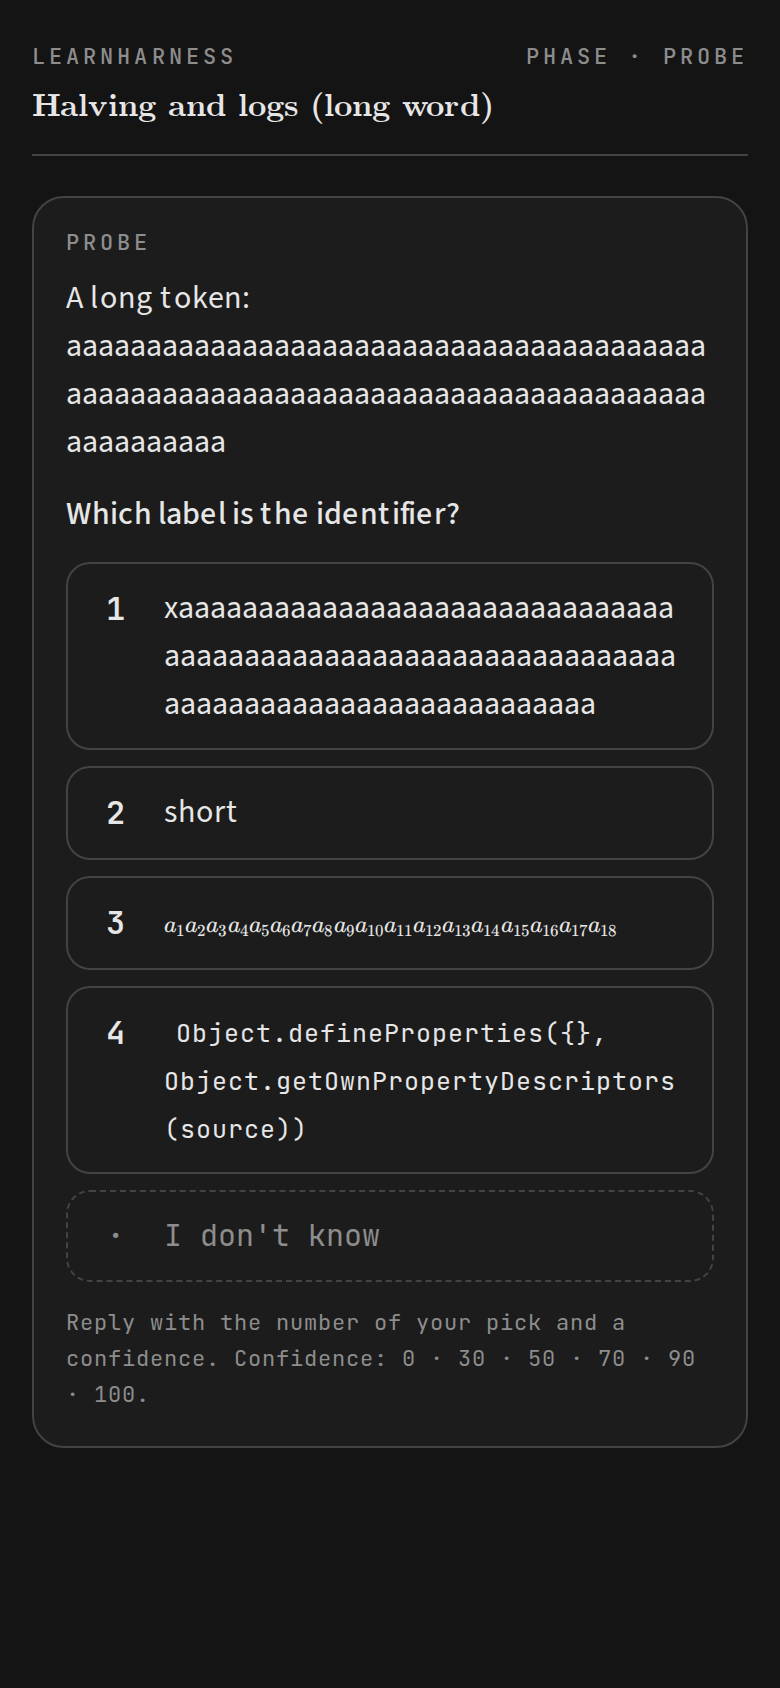
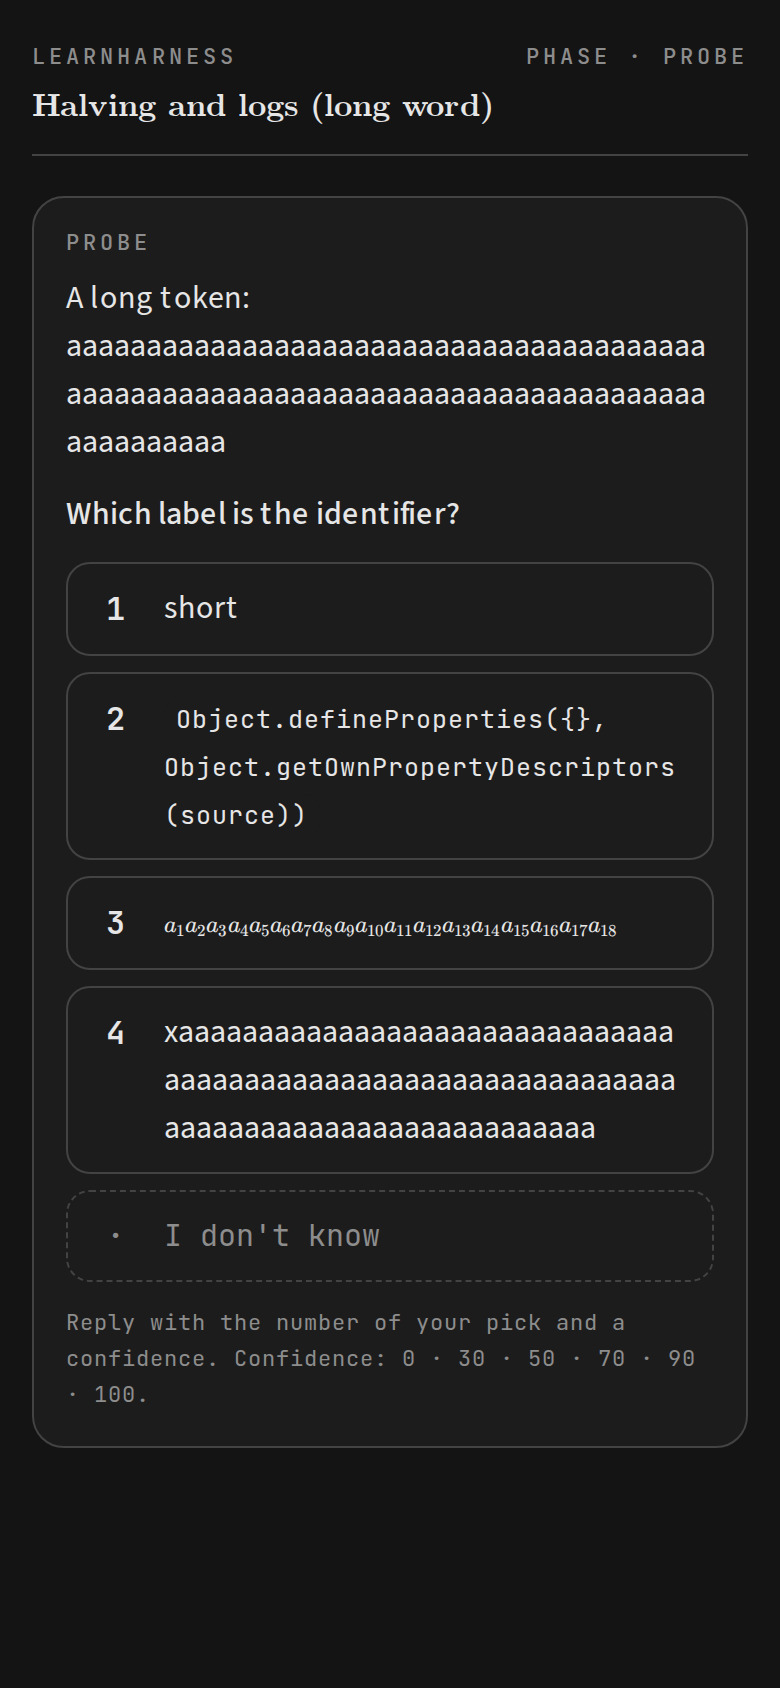
external-teacher 22: chart rule reads edge labels; retake.sh stops only its own server
Final review (seat A): ER and class diagrams kept 9 px edge labels because
the rule read only node labels; retake.sh's exit step killed whatever
listened on its port, including a server it did not start. The rule now
reads visible node and edge labels; retake.sh starts next dev in its own
session, kills only that process group, and fails when its server exits
or another process holds the port. Standards: clearer constant names, one
PORT, the PID file cleared before the trap. Screenshots retaken.

diff --git a/components/question-card.tsx b/components/question-card.tsx
@@ -48,7 +48,7 @@ function replyHint(q: QuestionCardQuestion): string {
 // current node's title alone, or a note for a chart.
 const CARD_MAP_WIDTH = 358;
 const NODE_TEXT_UNITS = 11;
-const MIN_NODE_TEXT_PX = 10;
+const MIN_LABEL_PX = 10;
 const MAP_PAD = GRAPH_PAD + 8;
 
 /** The plan map, when its node titles stay readable at 390 px. Height is
@@ -60,7 +60,7 @@ function PlanMap({ plan }: { plan: NonNullable<QuestionCardData["plan"]> }) {
 	const currentTitle = plan.current ? plan.tree.nodes.find((n) => n.id === plan.current)?.title : undefined;
 	const layout = blockLayout(plan.tree.nodes, plan.tree.edges);
 	const scale = Math.min(CARD_MAP_WIDTH / (Math.max(layout.width, 1) + 2 * MAP_PAD), TEXT_CAP_SCALE);
-	const legible = scale * NODE_TEXT_UNITS >= MIN_NODE_TEXT_PX;
+	const legible = scale * NODE_TEXT_UNITS >= MIN_LABEL_PX;
 	return (
 		<div data-testid="card-plan">
 			{legible && (
@@ -88,10 +88,10 @@ const FIT_STEPS = 10;
 const FIT_UNDERSHOOT = 0.97;
 // Mermaid draws labels at 16 svg units unless its styles say otherwise.
 const CHART_TEXT_UNITS = 16;
-const TOO_WIDE = "data-card-too-wide";
+const UNREADABLE = "data-card-unreadable";
 // The note an unreadable chart shows instead (the attribute is set by the fit).
-const TOO_WIDE_CSS = `[${TOO_WIDE}] > * { display: none !important; }
-[${TOO_WIDE}]::after { content: "This diagram does not fit a phone screenshot. Open the lesson page to see it."; display: block; padding: 12px; border: 1px dashed var(--border); border-radius: 8px; color: var(--muted-foreground); font-size: 14px; }`;
+const UNREADABLE_CSS = `[${UNREADABLE}] > * { display: none !important; }
+[${UNREADABLE}]::after { content: "This diagram does not fit a phone screenshot. Open the lesson page to see it."; display: block; padding: 12px; border: 1px dashed var(--border); border-radius: 8px; color: var(--muted-foreground); font-size: 14px; }`;
 
 /** A screenshot cannot scroll sideways. The page's renderers put wide
  *  display math, tables and code blocks in horizontal scrollers; shrink
@@ -127,7 +127,7 @@ function useFitWideContent(ref: React.RefObject<HTMLDivElement | null>) {
 			}
 			for (const math of maths) math.style.zoom = "";
 			const charts = [...root.querySelectorAll<HTMLElement>('[data-streamdown="mermaid"]')];
-			for (const chart of charts) chart.removeAttribute(TOO_WIDE);
+			for (const chart of charts) chart.removeAttribute(UNREADABLE);
 			for (const el of scrollers) {
 				if (el.scrollWidth <= el.clientWidth + 1) continue;
 				const factor = el.clientWidth / el.scrollWidth;
@@ -152,7 +152,7 @@ function useFitWideContent(ref: React.RefObject<HTMLDivElement | null>) {
 			}
 			// A chart is an svg scaled to the column: it cannot wrap or zoom
 			// back up. Like the plan map, hide one whose labels would read
-			// under MIN_NODE_TEXT_PX; the sheet's style shows a note instead.
+			// under MIN_LABEL_PX; the sheet's style shows a note instead.
 			// Known limit (accepted): the rule checks label size, not overlap,
 			// so a gantt's day ticks can overprint at 390 px and still show.
 			for (const chart of charts) {
@@ -162,12 +162,16 @@ function useFitWideContent(ref: React.RefObject<HTMLDivElement | null>) {
 				// Judge by the smallest label: a title or quadrant name is drawn
 				// larger than the tick and point labels next to it.
 				let units = Infinity;
-				for (const label of svg.querySelectorAll(".nodeLabel, text")) {
+				// Edge labels (relationship names, cardinalities) are drawn
+				// smaller than node labels; labels with no box are not shown.
+				for (const label of svg.querySelectorAll(".nodeLabel, .edgeLabel, text")) {
 					if (!label.textContent?.trim()) continue;
+					const box = label.getBoundingClientRect();
+					if (box.width === 0 || box.height === 0) continue;
 					units = Math.min(units, parseFloat(getComputedStyle(label).fontSize) || CHART_TEXT_UNITS);
 				}
 				if (units === Infinity) units = CHART_TEXT_UNITS;
-				if ((svg.getBoundingClientRect().width / viewWidth) * units < MIN_NODE_TEXT_PX) chart.setAttribute(TOO_WIDE, "");
+				if ((svg.getBoundingClientRect().width / viewWidth) * units < MIN_LABEL_PX) chart.setAttribute(UNREADABLE, "");
 			}
 			// Inline math is no scroller: KaTeX keeps a formula on one line
 			// (white-space: nowrap), so one with no break point can run past
@@ -243,7 +247,7 @@ function CardSheet({ title, tag, children }: { title: string; tag: string; child
 			data-testid="question-card"
 			className="min-h-dvh w-full bg-background text-foreground [overflow-wrap:anywhere] [&_button]:hidden"
 		>
-			<style>{TOO_WIDE_CSS}</style>
+			<style>{UNREADABLE_CSS}</style>
 			<main className="mx-auto w-full max-w-[430px] px-4 pb-10 pt-5">
 				<header className="mb-5 border-b border-border pb-3">
 					<div className="flex items-baseline justify-between gap-3 text-[11px] font-medium uppercase tracking-[0.14em] text-muted-foreground">

diff --git a/.scratch/external-teacher/card-22/README.md b/.scratch/external-teacher/card-22/README.md
@@ -2,11 +2,11 @@
 
 The card at `/chat/<lesson id>/card` shows the same view for ordinary lessons as for bot-run lessons. Practice sessions get a note that the card covers lessons only.
 
-Chart limits: a mermaid chart whose smallest label would read under 10 px shows a note pointing to the lesson page. Known limit (accepted): the rule checks label size, not overlap, so a gantt chart's date labels can overprint at 390 px and still show.
+Chart limits: a mermaid chart whose smallest visible label (node or edge) would read under 10 px shows a note pointing to the lesson page. Known limit (accepted): the rule checks label size, not overlap, so a gantt chart's date labels can overprint at 390 px and still show.
 
 To retake every image: `bash .scratch/external-teacher/card-22/retake.sh` from the repo root (it starts and stops its own `next dev` on port 3722 and prints the capture report to /tmp/lh22-shot.txt).
 
-Made 2026-11-02 on linuxdev, retaken after the round-8 fixes (a chart whose smallest label would read under 10 px shows a note instead, the plan map's threshold; zoom steps undershoot so wide math, tables and inline formulas fit exactly; inline formulas shrink to their box; links render as plain links; a code block that would need less than half size wraps instead) (the card is in the page flow and hides the app shell; wide content, code blocks included, shrinks to fit the column; long words and inline code break; the renderers' copy buttons are hidden). The probe lesson's call id is new each run, so its shuffle differs between captures.
+Made 2026-11-02 on linuxdev, retaken after the final-round fixes (a chart whose smallest label, edge labels included, would read under 10 px shows a note instead, the plan map's threshold; zoom steps undershoot so wide math, tables and inline formulas fit exactly; inline formulas shrink to their box; links render as plain links; a code block that would need less than half size wraps instead) (the card is in the page flow and hides the app shell; wide content, code blocks included, shrinks to fit the column; long words and inline code break; the renderers' copy buttons are hidden). The probe lesson's call id is new each run, so its shuffle differs between captures.
 
 - Server: `LH_DATA_DIR=<temp dir> LH_IGNORE_ENV_KEYS=1 npx next dev -H 127.0.0.1 -p 3722`, with the desktop variables unset and no keys.
 - Lessons were created with `scripts/lh.mjs`. Every JSON payload containing `$` went through `--file` (the files are in this folder):
@@ -17,7 +17,7 @@ Made 2026-11-02 on linuxdev, retaken after the round-8 fixes (a chart whose smal
   - longword: `lesson new`, then `probe --file longword-probe.json` (a 90-character word in the lead-in and an option, a long inline-code option, and an inline formula with no break point)
   - links: `lesson new`, `say --file links-say.txt`, then `probe --file links-probe.json` (Markdown links and a bare URL in teaching, lead-in, question and options, and a 153-character code line)
   - charts: `lesson new`, `say --file charts-say.txt` (a wide left-to-right chart, shown as a note, and a small top-down chart), then `ask --file charts-ask.json`
-  - charts2: `lesson new`, `say --file charts2-say.txt` (an xy chart and a quadrant chart whose tick and point labels are smaller than their titles; both show the note), then `ask --file charts-ask.json`
+  - charts2: `lesson new`, `say --file charts2-say.txt` (an xy chart, a quadrant chart, an ER diagram and a class diagram whose tick, point or edge labels are smaller than their titles or boxes; all four show the note), then `ask --file charts-ask.json`
   - none: `lesson new`, then `say --file say.txt`
 - Capture: `node shot.mjs http://127.0.0.1:3722 <out dir> probe=<id> quiz=<id> plan9=<id> wide=<id> longword=<id> links=<id> charts=<id> charts2=<id> none=<id>`. It uses puppeteer-core with chrome-headless-shell at 390 x 844 CSS px, DPR 2, and a plain full-page screenshot, the way a bot would take one.
 - Its output for this capture:
@@ -30,7 +30,7 @@ wide {"shownButtons":0,"documentHeight":1085,"cardHeight":1086,"documentWidth":3
 longword {"shownButtons":0,"documentHeight":844,"cardHeight":844,"documentWidth":390,"clipped":[],"outside":[]}
 links {"shownButtons":0,"documentHeight":845,"cardHeight":845,"documentWidth":390,"clipped":[],"outside":[]}
 charts {"shownButtons":0,"documentHeight":844,"cardHeight":844,"documentWidth":390,"clipped":[],"outside":[]}
-charts2 {"shownButtons":0,"documentHeight":844,"cardHeight":844,"documentWidth":390,"clipped":[],"outside":[]}
+charts2 {"shownButtons":0,"documentHeight":938,"cardHeight":939,"documentWidth":390,"clipped":[],"outside":[]}
 none {"shownButtons":0,"documentHeight":844,"cardHeight":844,"documentWidth":390,"clipped":[],"outside":[]}
 non-GET requests: []
 ```
